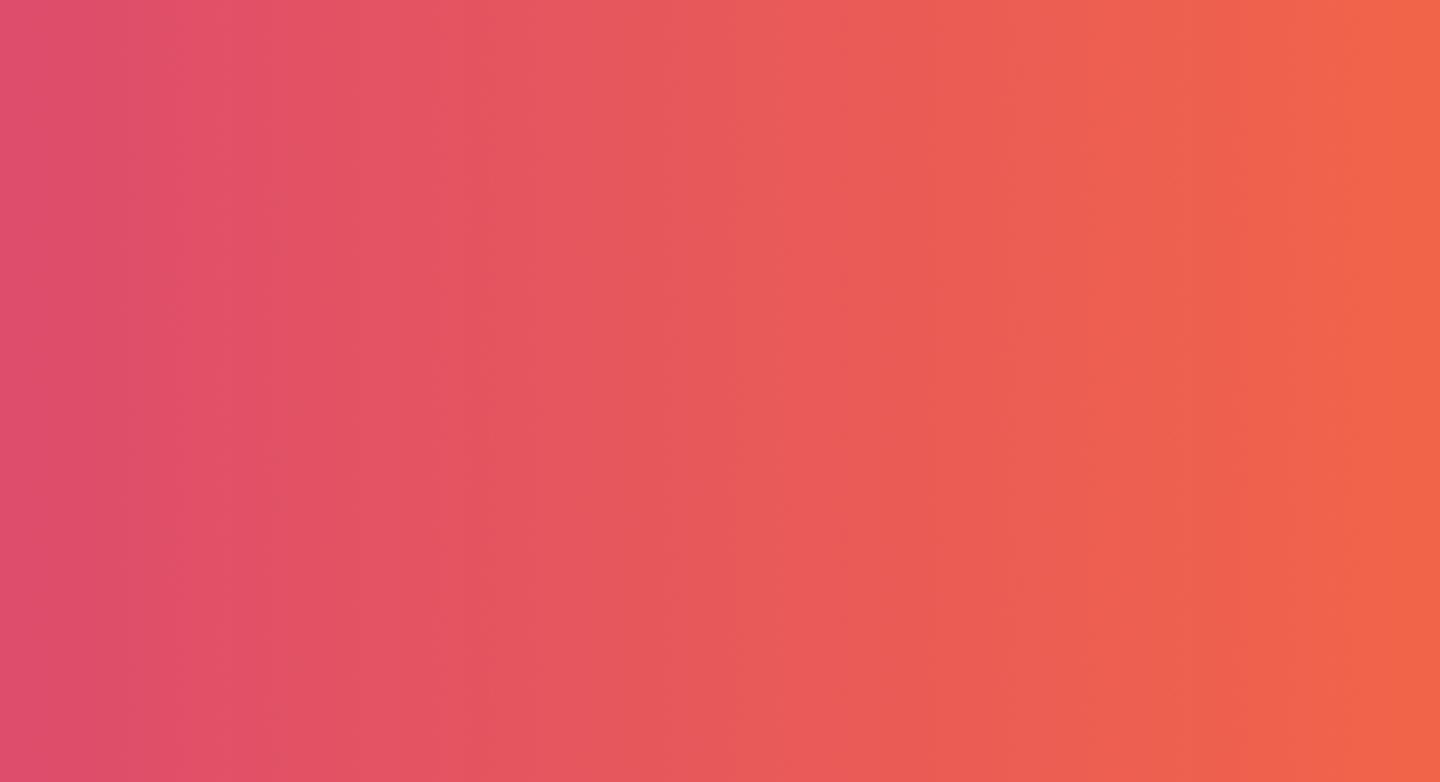
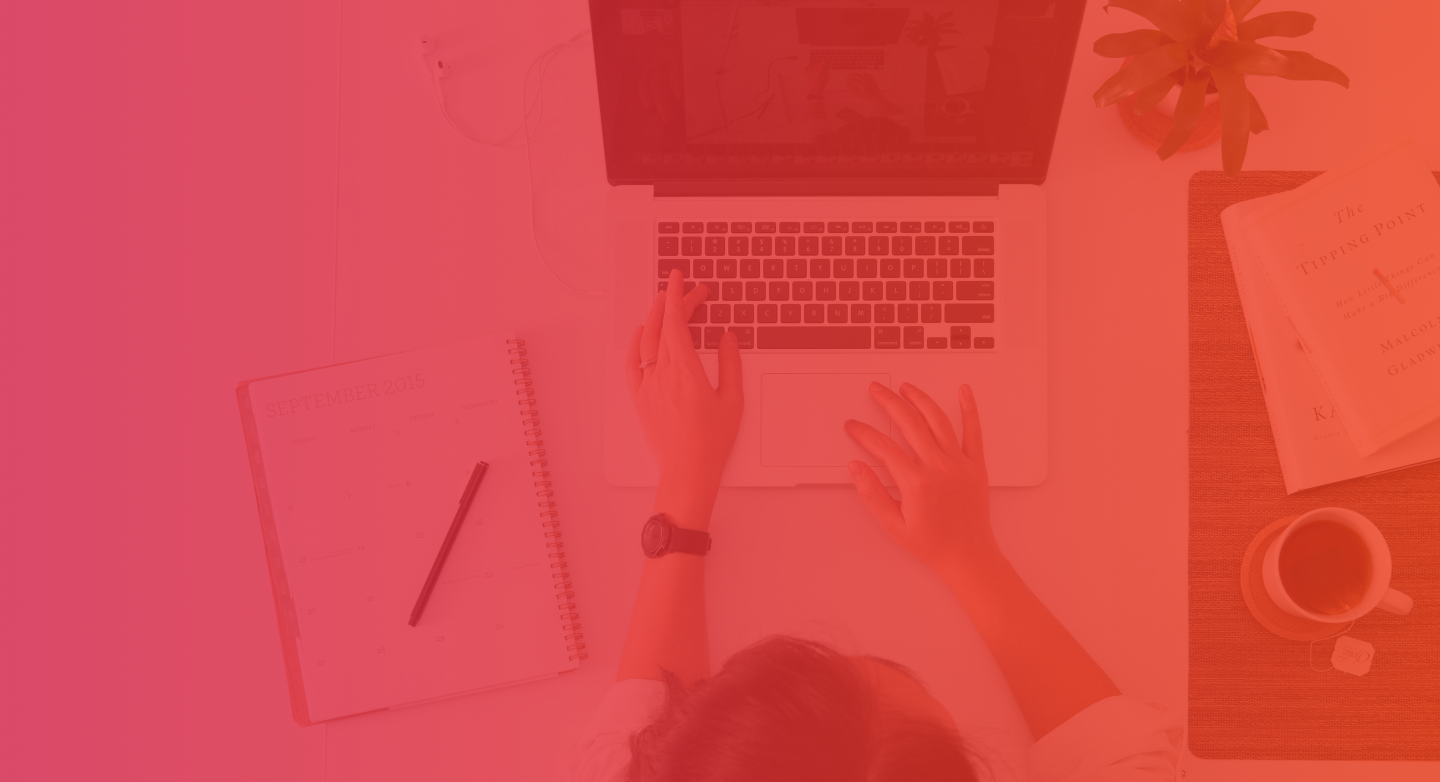
finished first screen

diff --git a/src/index.html b/src/index.html
@@ -9,7 +9,54 @@
 </head>
 
 <body>
-
+    <section class="main" id="main">
+        <div class="container">
+            <div class="row">
+                <div class="col-3">
+                    <div class="logo d-flex">
+                        <img src="./img/logo.png" alt="logo__img" class="logo">
+                        <p class="logo__name">CloudBudget</p>
+                    </div>
+                </div>
+                <div class="col-6">
+                    <nav class="nav d-flex justify-content-center">
+                        <a href="#" class="nav__link">Overview</a>
+                        <a href="#" class="nav__link">Features</a>
+                        <a href="#" class="nav__link">Technology</a>
+                        <a href="#" class="nav__link">Contact</a>
+                        <a href="#" class="nav__link">Sign up</a>
+                    </nav>
+                </div>
+                <div class="col-3">
+                    <div class="selector d-flex justify-content-end">
+                        <img src="./img/EN.png" alt="englando" class="selector__img">
+                        <div class="d-flex flex-column flex-sm-row">
+                            <select name="" id="" class="selector__item">
+                                <option value="#">EN</option>
+                                <option value="">RU</option>
+                                <option value="">JP</option>
+                            </select>
+                        </div>
+                        <a href="#"><button class="selector__ghost">Login</button></a>
+                    </div>
+                </div>
+            </div>
+            <div class="row">
+                <div class="col-12">
+                    <div class="offer text-center">
+                        <h1 class="offer__title">
+                            CloudBudget
+                        </h1>
+                        <p class="offer__desc">
+                            Cloud budget management for everyone. Only €69.95 a Month After a 7 Day Trial of
+                            Up to €4.99
+                        </p>
+                        <a href="#"><button class="offer__cta">Login</button></a>
+                    </div>
+                </div>
+            </div>
+        </div>
+    </section>
 </body>
 
 </html>

diff --git a/src/sass/style.sass b/src/sass/style.sass
@@ -11,13 +11,108 @@ $accent-red: #D52047
 
 body
    font-family: 'Lato', sans-serif
-   font-size: 14px
+   +rfs(14)
+   color: $white
 
 h1
     font-family: Lato
     font-style: normal
     font-weight: bold
-    font-size: 72px
+    +rfs(72)
     line-height: 86px
     letter-spacing: 0.05em
     text-transform: uppercase
+
+
+/* main screen */
+
+.main
+    padding: 55px 0 187px 0
+    background: url('../img/MainBG.png') no-repeat center top / cover
+
+.logo
+
+    &__img
+
+    &__name
+        font-style: normal
+        font-weight: bold
+        +rfs(18)
+        line-height: 22px
+        align-items: center
+        text-transform: uppercase
+        margin: auto 0 auto 7px
+
+.nav
+    align-items: center
+
+    &__link
+        font-family: Lato
+        font-style: normal
+        font-weight: normal
+        +rfs(14)
+        line-height: 17px
+        text-transform: uppercase
+        margin: 5px 16px auto 1px
+        color: $white
+        box-sizing: border-box
+
+        &:hover
+            text-decoration: none
+            font-weight: bold
+            color: $white
+
+select
+    background: transparent
+    outline: none
+    border: none
+    text-decoration: none
+    color: $white
+    width: 50px
+
+.selector
+    &__img
+        margin-right: 11px
+        width: 40px
+        height: 40px
+
+    &__ghost
+        width: 100px
+        height: 40px
+        background: transparent
+        border: 1px solid $white
+        border-radius: 6px
+        color: $white
+        text-transform: uppercase
+        margin-left: 25px
+
+        &:hover
+            text-decoration: none
+        &:active
+            text-decoration: none
+
+.offer
+    margin-top: 140px
+
+    &__title
+        margin-bottom: 39px
+    &__desc
+        width: 450px
+        margin: 0 auto
+        font-style: normal
+        +rfs(24)
+        line-height: 150%
+        text-align: center
+
+    &__cta
+        width: 160px
+        height: 50px
+        background: $white
+        border-radius: 6px
+        color: $accent-red
+        text-transform: uppercase
+        margin-left: 25px
+        margin-top: 39px
+
+        &:hover
+            text-decoration: none
